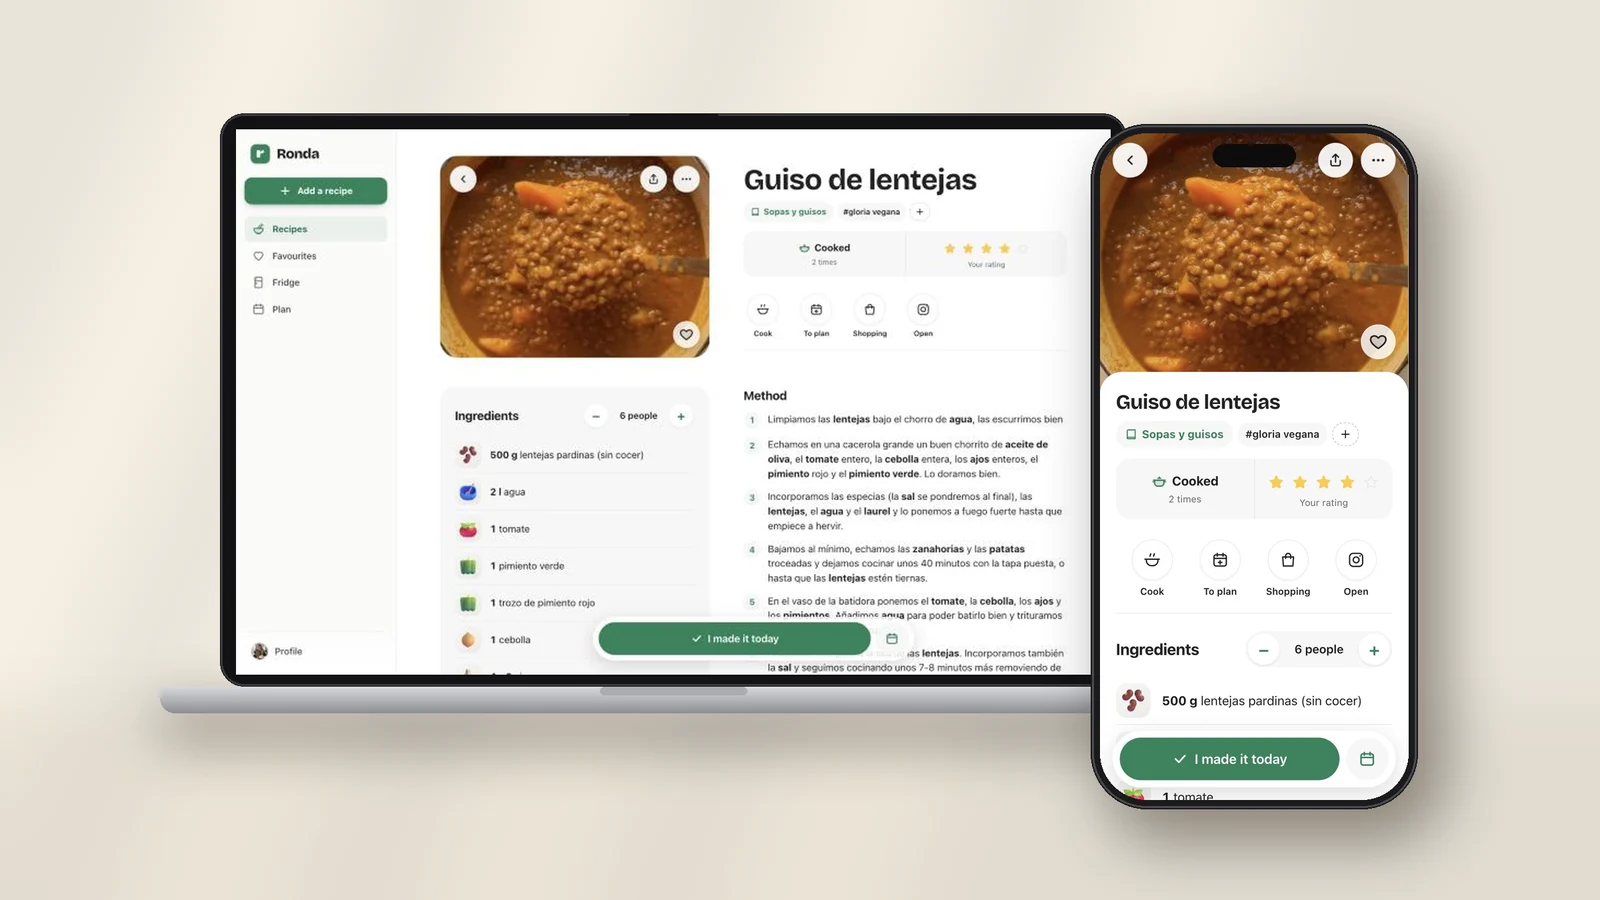
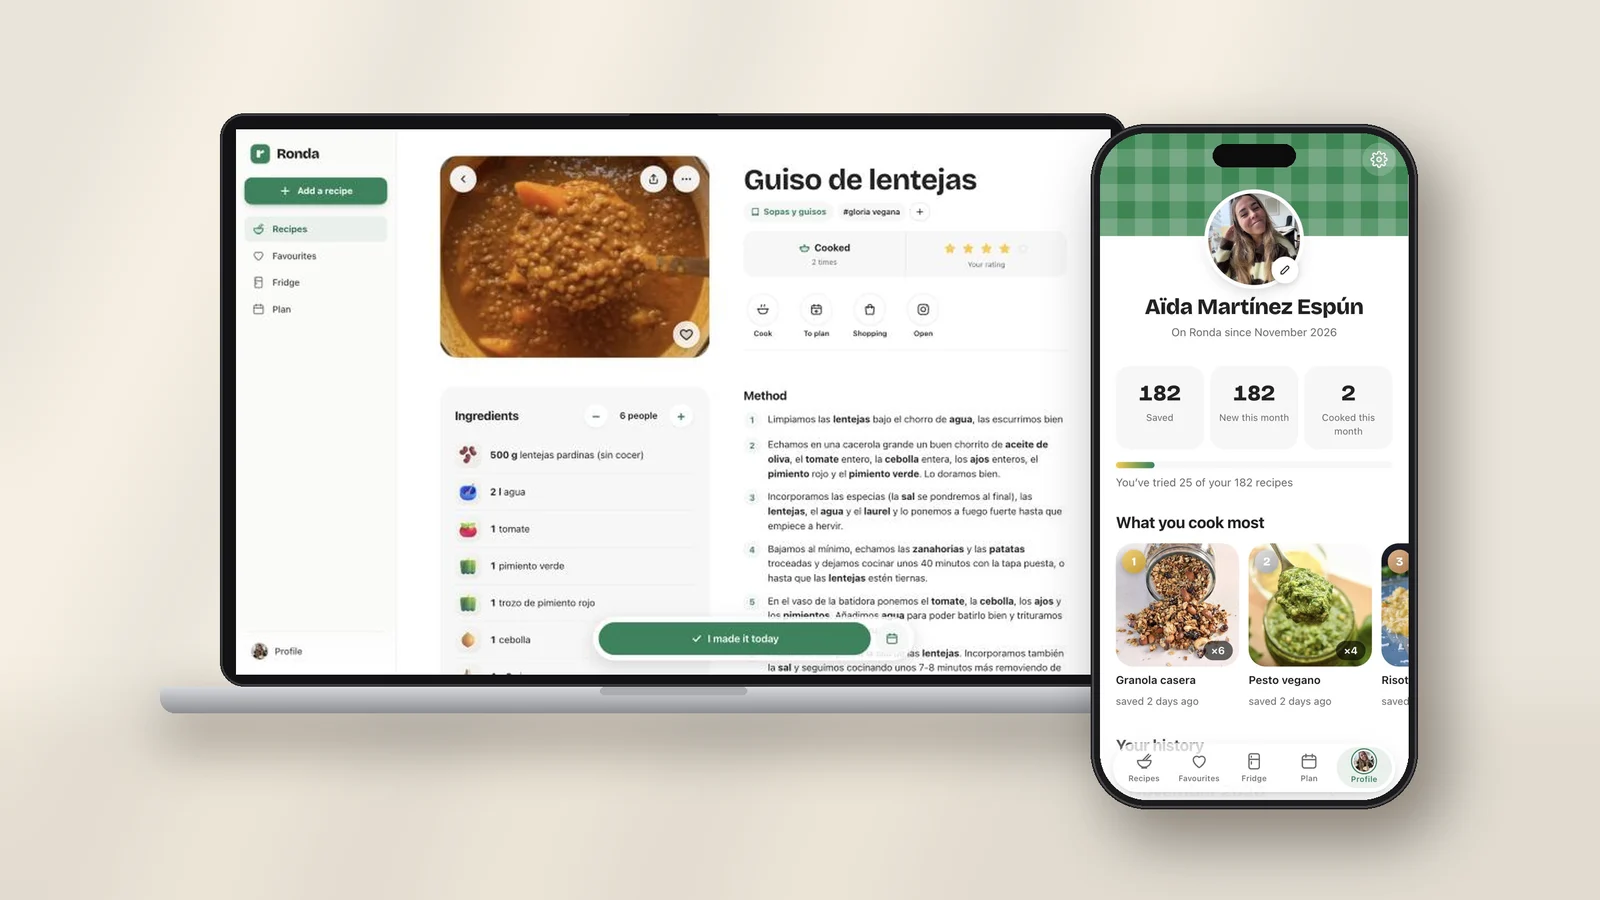
Ronda case study: profile on the cover mockup, built solo with AI made explicit
Claude-Session: https://claude.ai/code/session_01Quv4VpHUjhojSW38pWNX3M

Changed region(s): [[0.6875, 0.1244, 0.9062, 0.4978], [0.6875, 0.5289, 0.9062, 0.9022], [0.6875, 0.4978, 0.7188, 0.5289]]

diff --git a/studio/ronda/index.html b/studio/ronda/index.html
@@ -39,13 +39,13 @@
 <main class="wrap cs" id="main">
   <section class="cs-hero">
     <a class="back" href="../../studio/"><svg class="ic" viewBox="0 0 24 24" fill="none" stroke="currentColor" stroke-width="1.8" stroke-linecap="round" stroke-linejoin="round" aria-hidden="true"><path d="M19 12H5M11 18l-6-6 6-6"/></svg> All studio work</a>
-    <div class="tags"><span>Personal product</span><span>PWA · iOS · Android · Web</span><span>2026</span></div>
+    <div class="tags"><span>Built solo with AI</span><span>PWA · iOS · Android · Web</span><span>2026</span></div>
     <h1>Ronda: turning saved recipes into meals cooked again</h1>
-    <p class="lede">A recipe product I took from insight to launch on my own: <strong>product strategy, UX and brand</strong>, shipped with AI as my engineering team. It closes the gap between saving a recipe on social media and actually cooking it, again and again.</p>
-    <dl class="cs-meta"><div><dt>Role</dt><dd><span>Founder and product designer</span><span>Strategy, UX, brand</span></dd></div><div><dt>Scope</dt><dd><span>Discovery to launch</span><span>AI-assisted development</span></dd></div><div><dt>Platform</dt><dd><span>PWA: iPhone, Android</span><span>and desktop</span></dd></div><div><dt>Stage</dt><dd><span>Closed beta</span><span>4 languages</span></dd></div></dl>
-    <div class="kpis cs-kpis"><div class="kpi"><strong>110 / 295</strong>imported recipes auto-repaired</div><div class="kpi"><strong>89</strong>automated tests</div><div class="kpi"><strong>1</strong>designer, end to end</div></div>
+    <p class="lede">A recipe product I took from insight to launch <strong>on my own, built entirely with AI</strong>: no engineers, no agency. I led the product strategy, UX and brand; AI wrote every line of code. It closes the gap between saving a recipe on social media and actually cooking it, again and again.</p>
+    <dl class="cs-meta"><div><dt>Role</dt><dd><span>Founder and product designer</span><span>Strategy, UX, brand</span></dd></div><div><dt>Built with</dt><dd><span>AI only: Claude and</span><span>specialist skills</span></dd></div><div><dt>Platform</dt><dd><span>PWA: iPhone, Android</span><span>and desktop</span></dd></div><div><dt>Stage</dt><dd><span>Closed beta</span><span>4 languages</span></dd></div></dl>
+    <div class="kpis cs-kpis"><div class="kpi"><strong>1</strong>designer, 0 engineers</div><div class="kpi"><strong>100%</strong>of the code written by AI</div><div class="kpi"><strong>110 / 295</strong>imported recipes auto-repaired</div></div>
   </section>
-  <figure class="cs-cover" style="view-transition-name:cover-ronda"><img src="../../assets/ronda/cover-1600.webp?v=3" srcset="../../assets/ronda/cover-800.webp?v=3 800w, ../../assets/ronda/cover-1600.webp?v=3 1600w, ../../assets/ronda/cover-2400.webp?v=3 2400w" sizes="(max-width: 1500px) 100vw, 1440px" width="2400" height="1350" alt="Ronda on a laptop and an iPhone: a lentil stew recipe with its cook count, rating and ingredients" fetchpriority="high"></figure>
+  <figure class="cs-cover" style="view-transition-name:cover-ronda"><img src="../../assets/ronda/cover-1600.webp?v=4" srcset="../../assets/ronda/cover-800.webp?v=4 800w, ../../assets/ronda/cover-1600.webp?v=4 1600w, ../../assets/ronda/cover-2400.webp?v=4 2400w" sizes="(max-width: 1500px) 100vw, 1440px" width="2400" height="1350" alt="Ronda on a laptop showing a lentil stew recipe, and on an iPhone showing the profile with cooking stats" fetchpriority="high"></figure>
   <nav class="cs-index" aria-label="In this case study"><p>In this case study</p><ol><li><a href="#context">Context and opportunity</a></li><li><a href="#strategy">Product strategy</a></li><li><a href="#decisions">Key product decisions</a></li><li><a href="#growth">Growth and retention levers</a></li><li><a href="#features">What’s in the product</a></li><li><a href="#desktop">Mobile first, desktop as a real product</a></li><li><a href="#identity">Brand identity</a></li><li><a href="#ai">Designing and shipping with AI</a></li><li><a href="#next">What’s next</a></li></ol></nav>
   <article class="cs-body"><section class="cs-ch" id="context"><h2>Context and opportunity</h2><div class="cs-text">
 <p class="cs-statement">People save hundreds of recipes. They cook almost none of them.</p>
@@ -59,7 +59,7 @@
 <li><b>Cook and log</b><span>A hands-free cooking mode; “I made it today” records each time a dish is cooked.</span></li>
 <li><b>Resurface</b><span>Cook counts and rhythm (“every 3 weeks”) bring favourites back before they’re forgotten.</span></li>
 </ul>
-<p>The metric that best captures value is <strong>recipes cooked per active user per week</strong>. Saves are a vanity metric here: a saved recipe that is never cooked is a failure of the product, not a success.</p></div><div class="cs-wide"><figure class="cs-fig"><img src="../../assets/ronda/screens-core-1600.webp?v=3" srcset="../../assets/ronda/screens-core-800.webp?v=3 800w, ../../assets/ronda/screens-core-1600.webp?v=3 1600w, ../../assets/ronda/screens-core-2400.webp?v=3 2400w" sizes="(max-width: 1500px) 100vw, 1440px" width="2400" height="1500" alt="Ronda on iPhone: the recipe library, a recipe with cook count and rating, and the step-by-step cooking mode" loading="lazy" decoding="async"></figure></div></section><section class="cs-ch" id="decisions"><h2>Key product decisions</h2><div class="cs-text">
+<p>The metric that best captures value is <strong>recipes cooked per active user per week</strong>. Saves are a vanity metric here: a saved recipe that is never cooked is a failure of the product, not a success.</p></div><div class="cs-wide"><figure class="cs-fig"><img src="../../assets/ronda/screens-core-1600.webp?v=4" srcset="../../assets/ronda/screens-core-800.webp?v=4 800w, ../../assets/ronda/screens-core-1600.webp?v=4 1600w, ../../assets/ronda/screens-core-2400.webp?v=4 2400w" sizes="(max-width: 1500px) 100vw, 1440px" width="2400" height="1500" alt="Ronda on iPhone: the recipe library, a recipe with cook count and rating, and the step-by-step cooking mode" loading="lazy" decoding="async"></figure></div></section><section class="cs-ch" id="decisions"><h2>Key product decisions</h2><div class="cs-text">
 <h3>Information architecture led by frequency of use</h3>
 <p>I initially folded Favourites into Recipes as a filter, since that’s what it is in the data model. Mapping how often each moment happens reversed that call: cooking a known favourite is the most frequent task in the product, so it earned a permanent tab. The shopping list, used weekly, moved inside Plan with a badge for what’s left to buy. The navigation now mirrors usage, not the database: Recipes, Favourites, Fridge, Plan, Profile.</p>
 <h3>“Fridge”: start from what you have</h3>
@@ -67,14 +67,14 @@
 <h3>Activation depends on import quality</h3>
 <p>The first imported recipe is the activation moment. If it arrives broken, trust is lost before the user cooks anything. Every import now runs through a repair pipeline: stories and sign-offs move to notes, number words become digits, kitchen slang becomes real quantities in four languages, run-on lists are split and long methods become short steps. Run against a real collection, it <strong>repaired 110 of 295 recipes</strong>, with every change reviewable and reversible.</p>
 <h3>Designed for the kitchen</h3>
-<p>Quantities in bold and readable from a distance, servings that rescale every amount, ingredient icons for quick scanning, and a step-by-step cooking mode with timers and the ingredients each step needs.</p></div><div class="cs-wide"><figure class="cs-fig"><img src="../../assets/ronda/screens-fridge-1600.webp?v=3" srcset="../../assets/ronda/screens-fridge-800.webp?v=3 800w, ../../assets/ronda/screens-fridge-1600.webp?v=3 1600w, ../../assets/ronda/screens-fridge-2400.webp?v=3 2400w" sizes="(max-width: 1500px) 100vw, 1440px" width="2400" height="1500" alt="The Fridge tab: chosen ingredients, most-used ingredients with counts, and recipes that use everything selected" loading="lazy" decoding="async"></figure></div></section><section class="cs-ch" id="growth"><h2>Growth and retention levers</h2><div class="cs-text">
+<p>Quantities in bold and readable from a distance, servings that rescale every amount, ingredient icons for quick scanning, and a step-by-step cooking mode with timers and the ingredients each step needs.</p></div><div class="cs-wide"><figure class="cs-fig"><img src="../../assets/ronda/screens-fridge-1600.webp?v=4" srcset="../../assets/ronda/screens-fridge-800.webp?v=4 800w, ../../assets/ronda/screens-fridge-1600.webp?v=4 1600w, ../../assets/ronda/screens-fridge-2400.webp?v=4 2400w" sizes="(max-width: 1500px) 100vw, 1440px" width="2400" height="1500" alt="The Fridge tab: chosen ingredients, most-used ingredients with counts, and recipes that use everything selected" loading="lazy" decoding="async"></figure></div></section><section class="cs-ch" id="growth"><h2>Growth and retention levers</h2><div class="cs-text">
 <ul class="cs-points">
 <li><b>No empty first run</b><span>New accounts start with example recipes already rated and cooked, so the value of logging is visible before users add anything.</span></li>
 <li><b>Re-engagement</b><span>A weekly planning reminder at a time each user chooses, morning or evening, plus a gentle “fancy something new?” nudge on the home screen.</span></li>
 <li><b>Built-in distribution</b><span>Every recipe can be shared as a link that opens without an account and invites the recipient to save it, turning sharing into acquisition.</span></li>
 <li><b>Low-friction access</b><span>A PWA: no app store, installs from the browser, works on iPhone, Android and desktop, in Spanish, English, Dutch and French.</span></li>
 </ul>
-<p>Ronda is in a closed beta with a small group of users. Next on the roadmap is instrumenting the funnel: <strong>activation</strong> (first imported recipe cooked), <strong>retention</strong> (weekly cooking) and <strong>referral</strong> (shared links that convert to accounts).</p></div><div class="cs-wide"><figure class="cs-fig"><img src="../../assets/ronda/screens-plan-1600.webp?v=3" srcset="../../assets/ronda/screens-plan-800.webp?v=3 800w, ../../assets/ronda/screens-plan-1600.webp?v=3 1600w, ../../assets/ronda/screens-plan-2400.webp?v=3 2400w" sizes="(max-width: 1500px) 100vw, 1440px" width="2400" height="1500" alt="The weekly plan with the shopping list button, and the profile with cooking stats and the dishes cooked most" loading="lazy" decoding="async"></figure></div></section><section class="cs-ch" id="features"><h2>What’s in the product</h2><div class="cs-text">
+<p>Ronda is in a closed beta with a small group of users. Next on the roadmap is instrumenting the funnel: <strong>activation</strong> (first imported recipe cooked), <strong>retention</strong> (weekly cooking) and <strong>referral</strong> (shared links that convert to accounts).</p></div><div class="cs-wide"><figure class="cs-fig"><img src="../../assets/ronda/screens-plan-1600.webp?v=4" srcset="../../assets/ronda/screens-plan-800.webp?v=4 800w, ../../assets/ronda/screens-plan-1600.webp?v=4 1600w, ../../assets/ronda/screens-plan-2400.webp?v=4 2400w" sizes="(max-width: 1500px) 100vw, 1440px" width="2400" height="1500" alt="The weekly plan with the shopping list button, and the profile with cooking stats and the dishes cooked most" loading="lazy" decoding="async"></figure></div></section><section class="cs-ch" id="features"><h2>What’s in the product</h2><div class="cs-text">
 <p>A complete product rather than a prototype: every flow below is live and in daily use.</p>
 <ul class="cs-points">
 <li><b>Capture</b><span>Import from Instagram, TikTok, YouTube and recipe websites; scan a cookbook page from a photo; dictate; paste text; or write from scratch.</span></li>
@@ -85,9 +85,9 @@
 <li><b>Profile</b><span>Personal stats, what you cook most, a monthly cooking history and a customisable cover.</span></li>
 <li><b>Platform</b><span>Installable PWA, weekly push reminders, four languages with automatic translation of recipes, and a full desktop layout.</span></li>
 <li><b>Trust</b><span>Undo on destructive actions, every import repair reviewable, photos optimised for storage, data export.</span></li>
-</ul></div><div class="cs-wide"><figure class="cs-fig"><img src="../../assets/ronda/mockup-profile-1600.webp?v=3" srcset="../../assets/ronda/mockup-profile-800.webp?v=3 800w, ../../assets/ronda/mockup-profile-1600.webp?v=3 1600w, ../../assets/ronda/mockup-profile-2400.webp?v=3 2400w" sizes="(max-width: 1500px) 100vw, 1440px" width="2400" height="1500" alt="Ronda on two iPhones: the profile with cooking stats and favourite dishes, and Fridge results for chocolate, flour and egg" loading="lazy" decoding="async"></figure></div></section><section class="cs-ch" id="desktop"><h2>Mobile first, desktop as a real product</h2><div class="cs-text">
-<p>Planning happens on the sofa, cooking happens in the kitchen, often with a laptop on the counter. On larger screens the tab bar becomes a sidebar, recipes go two-column with the ingredients beside the method, and every touch gesture has a mouse and keyboard equivalent: hover actions instead of swipes, arrow keys in cooking mode, “/” to search.</p></div><div class="cs-wide"><figure class="cs-fig"><img src="../../assets/ronda/screens-desktop-1600.webp?v=3" srcset="../../assets/ronda/screens-desktop-800.webp?v=3 800w, ../../assets/ronda/screens-desktop-1600.webp?v=3 1600w, ../../assets/ronda/screens-desktop-2400.webp?v=3 2400w" sizes="(max-width: 1500px) 100vw, 1440px" width="2400" height="1500" alt="Ronda on desktop: sidebar navigation, recipe photo beside the title, ingredients beside the method" loading="lazy" decoding="async"></figure></div></section><section class="cs-ch" id="identity"><h2>Brand identity</h2><div class="cs-text">
-<p>The identity comes from the table: <strong>a green gingham tablecloth</strong> that carries from the app icon to the launch screen and the profile. The mark is a single lowercase <em>r</em> set in Syne, legible at 16 px. Literal food icons and hand-drawn letters were explored and rejected as generic or dated.</p></div><div class="cs-wide"><figure class="cs-fig"><img src="../../assets/ronda/identity-1600.webp?v=3" srcset="../../assets/ronda/identity-800.webp?v=3 800w, ../../assets/ronda/identity-1600.webp?v=3 1600w, ../../assets/ronda/identity-2400.webp?v=3 2400w" sizes="(max-width: 1500px) 100vw, 1440px" width="2400" height="1500" alt="Ronda app icon, launch screen and sign-in screen, all on the green gingham tablecloth" loading="lazy" decoding="async"></figure></div></section><section class="cs-ch" id="ai"><h2>Designing and shipping with AI</h2><div class="cs-text">
+</ul></div><div class="cs-wide"><figure class="cs-fig"><img src="../../assets/ronda/mockup-profile-1600.webp?v=4" srcset="../../assets/ronda/mockup-profile-800.webp?v=4 800w, ../../assets/ronda/mockup-profile-1600.webp?v=4 1600w, ../../assets/ronda/mockup-profile-2400.webp?v=4 2400w" sizes="(max-width: 1500px) 100vw, 1440px" width="2400" height="1500" alt="Ronda on two iPhones: the profile with cooking stats and favourite dishes, and Fridge results for chocolate, flour and egg" loading="lazy" decoding="async"></figure></div></section><section class="cs-ch" id="desktop"><h2>Mobile first, desktop as a real product</h2><div class="cs-text">
+<p>Planning happens on the sofa, cooking happens in the kitchen, often with a laptop on the counter. On larger screens the tab bar becomes a sidebar, recipes go two-column with the ingredients beside the method, and every touch gesture has a mouse and keyboard equivalent: hover actions instead of swipes, arrow keys in cooking mode, “/” to search.</p></div><div class="cs-wide"><figure class="cs-fig"><img src="../../assets/ronda/screens-desktop-1600.webp?v=4" srcset="../../assets/ronda/screens-desktop-800.webp?v=4 800w, ../../assets/ronda/screens-desktop-1600.webp?v=4 1600w, ../../assets/ronda/screens-desktop-2400.webp?v=4 2400w" sizes="(max-width: 1500px) 100vw, 1440px" width="2400" height="1500" alt="Ronda on desktop: sidebar navigation, recipe photo beside the title, ingredients beside the method" loading="lazy" decoding="async"></figure></div></section><section class="cs-ch" id="identity"><h2>Brand identity</h2><div class="cs-text">
+<p>The identity comes from the table: <strong>a green gingham tablecloth</strong> that carries from the app icon to the launch screen and the profile. The mark is a single lowercase <em>r</em> set in Syne, legible at 16 px. Literal food icons and hand-drawn letters were explored and rejected as generic or dated.</p></div><div class="cs-wide"><figure class="cs-fig"><img src="../../assets/ronda/identity-1600.webp?v=4" srcset="../../assets/ronda/identity-800.webp?v=4 800w, ../../assets/ronda/identity-1600.webp?v=4 1600w, ../../assets/ronda/identity-2400.webp?v=4 2400w" sizes="(max-width: 1500px) 100vw, 1440px" width="2400" height="1500" alt="Ronda app icon, launch screen and sign-in screen, all on the green gingham tablecloth" loading="lazy" decoding="async"></figure></div></section><section class="cs-ch" id="ai"><h2>Designing and shipping with AI</h2><div class="cs-text">
 <p>I owned Ronda end to end, from discovery and strategy to design and release, working with Claude as my engineering team. I set the direction, the product decisions and the quality bar; the AI implemented features, generated design options, wrote automated tests and reviewed flows against usability heuristics.</p>
 <ul class="cs-points">
 <li><b>Judgement stays human</b><span>Most of my time went into prioritising, reviewing and saying no: to generic logo routes, to an architecture that fought real habits.</span></li>

diff --git a/studio/index.html b/studio/index.html
@@ -44,7 +44,7 @@
 
   <section class="section studio-group" aria-labelledby="sg-0">
     <div class="sg-head"><h2 id="sg-0">Products I build</h2><p>Apps I design and ship end to end, <strong>with AI as my engineering team</strong>.</p></div>
-    <div class="earlier"><a class="small" href="../studio/ronda/"><div class="media"><img src="../assets/ronda/cover-800.webp?v=3" srcset="../assets/ronda/cover-800.webp?v=3 800w, ../assets/ronda/cover-1600.webp?v=3 1600w" sizes="(max-width: 600px) 100vw, (max-width: 900px) 50vw, 380px" width="1600" height="1000" alt="" loading="lazy" decoding="async"></div><b>Ronda recipe app <svg class="ic" viewBox="0 0 24 24" fill="none" stroke="currentColor" stroke-width="2" stroke-linecap="round" stroke-linejoin="round" aria-hidden="true"><path d="M5 12h14M13 6l6 6-6 6"/></svg></b><span>Product strategy, UX and brand · AI-built PWA</span></a></div>
+    <div class="earlier"><a class="small" href="../studio/ronda/"><div class="media"><img src="../assets/ronda/cover-800.webp?v=4" srcset="../assets/ronda/cover-800.webp?v=4 800w, ../assets/ronda/cover-1600.webp?v=4 1600w" sizes="(max-width: 600px) 100vw, (max-width: 900px) 50vw, 380px" width="1600" height="1000" alt="" loading="lazy" decoding="async"></div><b>Ronda recipe app <svg class="ic" viewBox="0 0 24 24" fill="none" stroke="currentColor" stroke-width="2" stroke-linecap="round" stroke-linejoin="round" aria-hidden="true"><path d="M5 12h14M13 6l6 6-6 6"/></svg></b><span>Designed and built solo, entirely with AI</span></a></div>
   </section>
   <section class="section studio-group" aria-labelledby="sg-1">
     <div class="sg-head"><h2 id="sg-1">Websites and UI</h2><p>No-code websites and interfaces for small businesses, <strong>from the first sketch to launch</strong>.</p></div>

diff --git a/_src/build.py b/_src/build.py
@@ -589,7 +589,7 @@ STUDIO_GROUPS = [
 ]
 
 
-RONDA_CARD = f'''<a class="small" href="@@/studio/ronda/"><div class="media"><img src="@@/assets/ronda/cover-800.webp?v=3" srcset="@@/assets/ronda/cover-800.webp?v=3 800w, @@/assets/ronda/cover-1600.webp?v=3 1600w" sizes="(max-width: 600px) 100vw, (max-width: 900px) 50vw, 380px" width="1600" height="1000" alt="" loading="lazy" decoding="async"></div><b>Ronda recipe app {ARROW}</b><span>Product strategy, UX and brand · AI-built PWA</span></a>'''
+RONDA_CARD = f'''<a class="small" href="@@/studio/ronda/"><div class="media"><img src="@@/assets/ronda/cover-800.webp?v=4" srcset="@@/assets/ronda/cover-800.webp?v=4 800w, @@/assets/ronda/cover-1600.webp?v=4 1600w" sizes="(max-width: 600px) 100vw, (max-width: 900px) 50vw, 380px" width="1600" height="1000" alt="" loading="lazy" decoding="async"></div><b>Ronda recipe app {ARROW}</b><span>Designed and built solo, entirely with AI</span></a>'''
 
 
 def studio():
@@ -1079,8 +1079,8 @@ def case_page(key, p, back, back_label, nxt, nxt_href, kind):
 
 
 # ---------- Ronda: a product I design and build (hand-written, not from the Squarespace export) ----------
-RONDA_V = 3
-RONDA = dict(slug='ronda', title='Ronda', alt='Ronda on a laptop and an iPhone: a lentil stew recipe with its cook count, rating and ingredients')
+RONDA_V = 4
+RONDA = dict(slug='ronda', title='Ronda', alt='Ronda on a laptop showing a lentil stew recipe, and on an iPhone showing the profile with cooking stats')
 
 
 def rimg(name, alt, w, h, eager=False):
@@ -1178,9 +1178,9 @@ def ronda_page(nxt):
         for cid, h, t in RONDA_CH)
     index_html = '<nav class="cs-index" aria-label="In this case study"><p>In this case study</p><ol>' + ''.join(
         f'<li><a href="#{cid}">{h}</a></li>' for cid, h, _ in RONDA_CH) + '</ol></nav>'
-    meta = [('Role', 'Founder and product designer<br>Strategy, UX, brand'), ('Scope', 'Discovery to launch<br>AI-assisted development'),
+    meta = [('Role', 'Founder and product designer<br>Strategy, UX, brand'), ('Built with', 'AI only: Claude and<br>specialist skills'),
             ('Platform', 'PWA: iPhone, Android<br>and desktop'), ('Stage', 'Closed beta<br>4 languages')]
-    kpis = [('110 / 295', 'imported recipes auto-repaired'), ('89', 'automated tests'), ('1', 'designer, end to end')]
+    kpis = [('1', 'designer, 0 engineers'), ('100%', 'of the code written by AI'), ('110 / 295', 'imported recipes auto-repaired')]
     kpi_html = ''.join(f'<div class="kpi"><strong>{v}</strong>{l}</div>' for v, l in kpis)
     nxt_html = (f'<a class="cs-next" href="@@/studio/{nxt["slug"]}/">'
                 f'<span class="media">{pic(nxt["cover"], "", "(max-width: 900px) 100vw, 560px")}</span>'
@@ -1192,9 +1192,9 @@ def ronda_page(nxt):
 <main class="wrap cs" id="main">
   <section class="cs-hero">
     <a class="back" href="@@/studio/">{BACK} All studio work</a>
-    {tags(['Personal product', 'PWA · iOS · Android · Web', '2026'])}
+    {tags(['Built solo with AI', 'PWA · iOS · Android · Web', '2026'])}
     <h1>Ronda: turning saved recipes into meals cooked again</h1>
-    <p class="lede">A recipe product I took from insight to launch on my own: <strong>product strategy, UX and brand</strong>, shipped with AI as my engineering team. It closes the gap between saving a recipe on social media and actually cooking it, again and again.</p>
+    <p class="lede">A recipe product I took from insight to launch <strong>on my own, built entirely with AI</strong>: no engineers, no agency. I led the product strategy, UX and brand; AI wrote every line of code. It closes the gap between saving a recipe on social media and actually cooking it, again and again.</p>
     {meta_html(meta)}
     <div class="kpis cs-kpis">{kpi_html}</div>
   </section>
